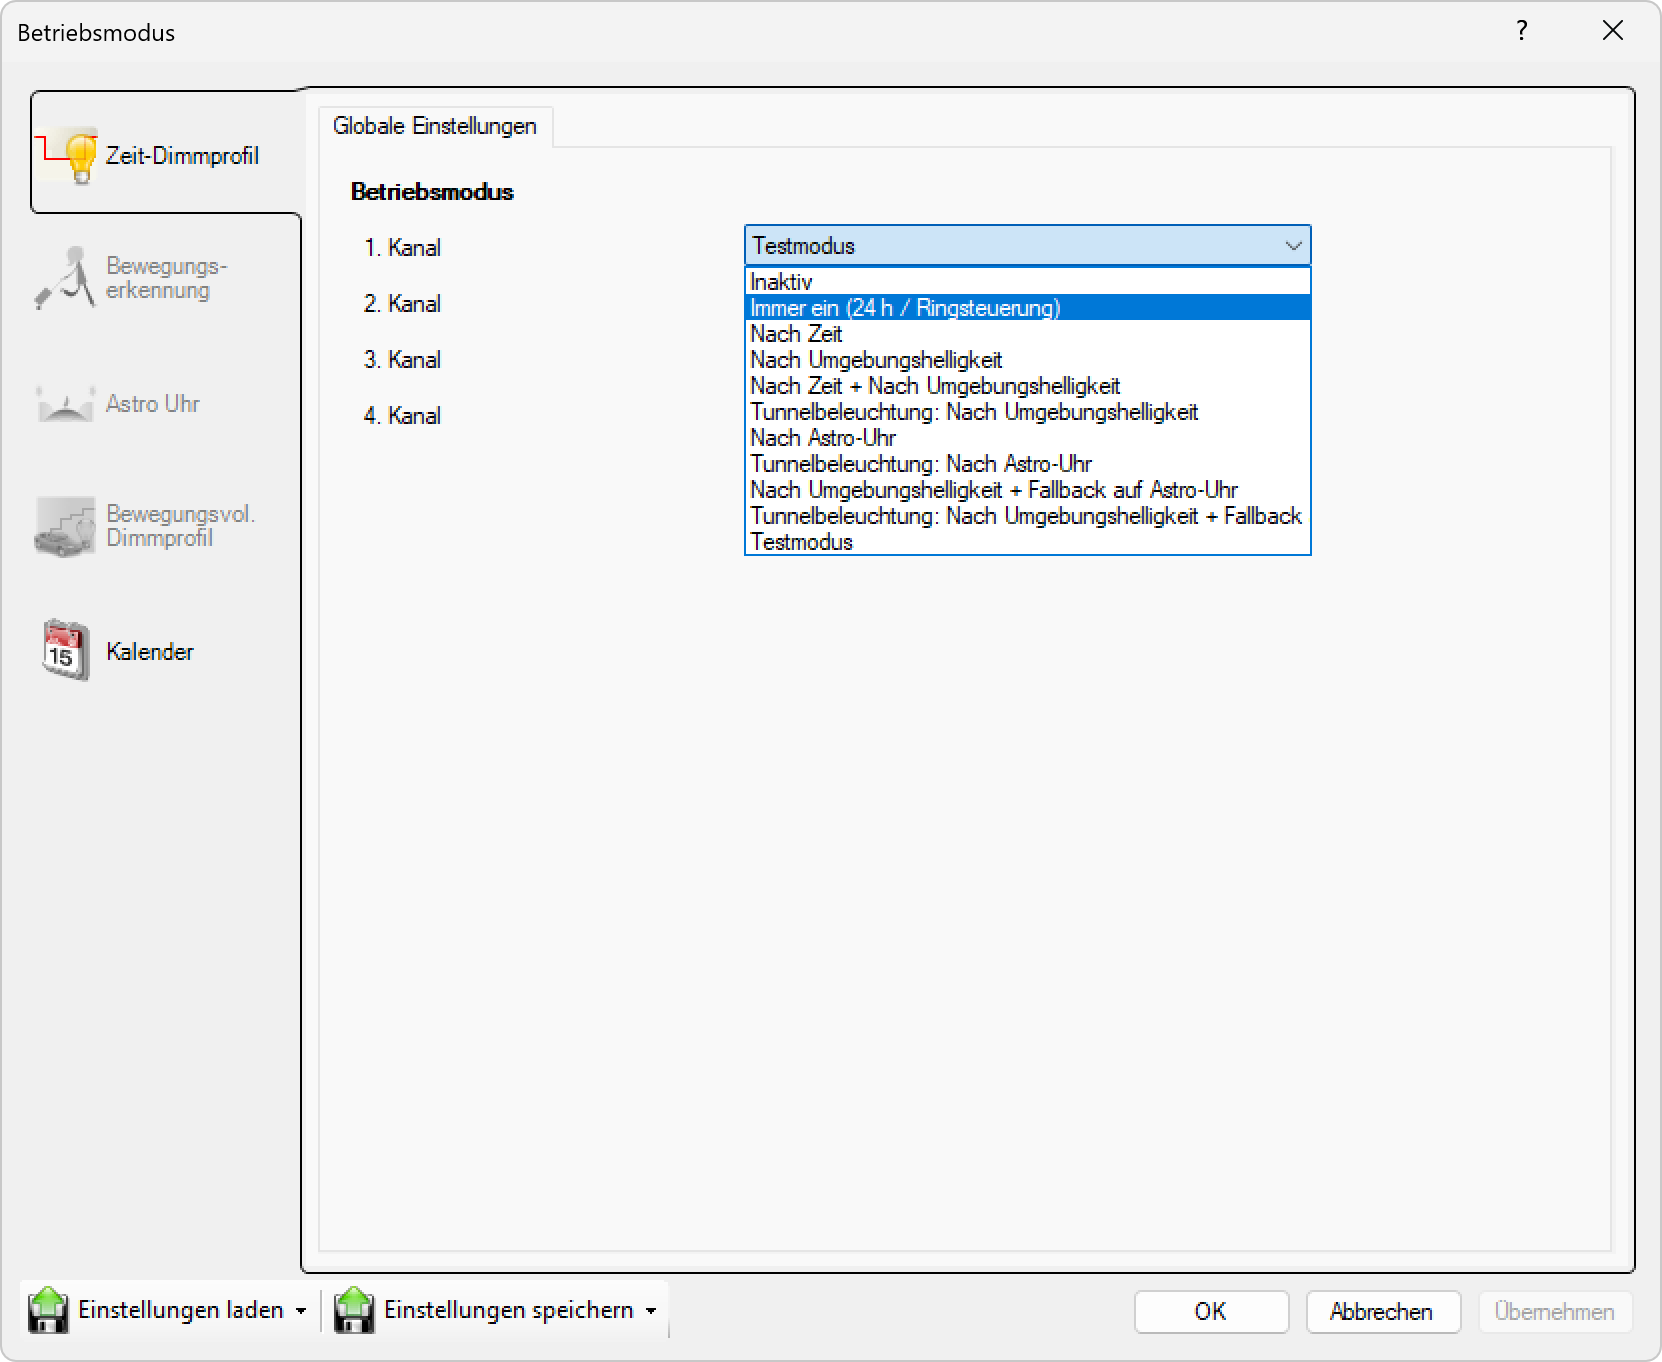
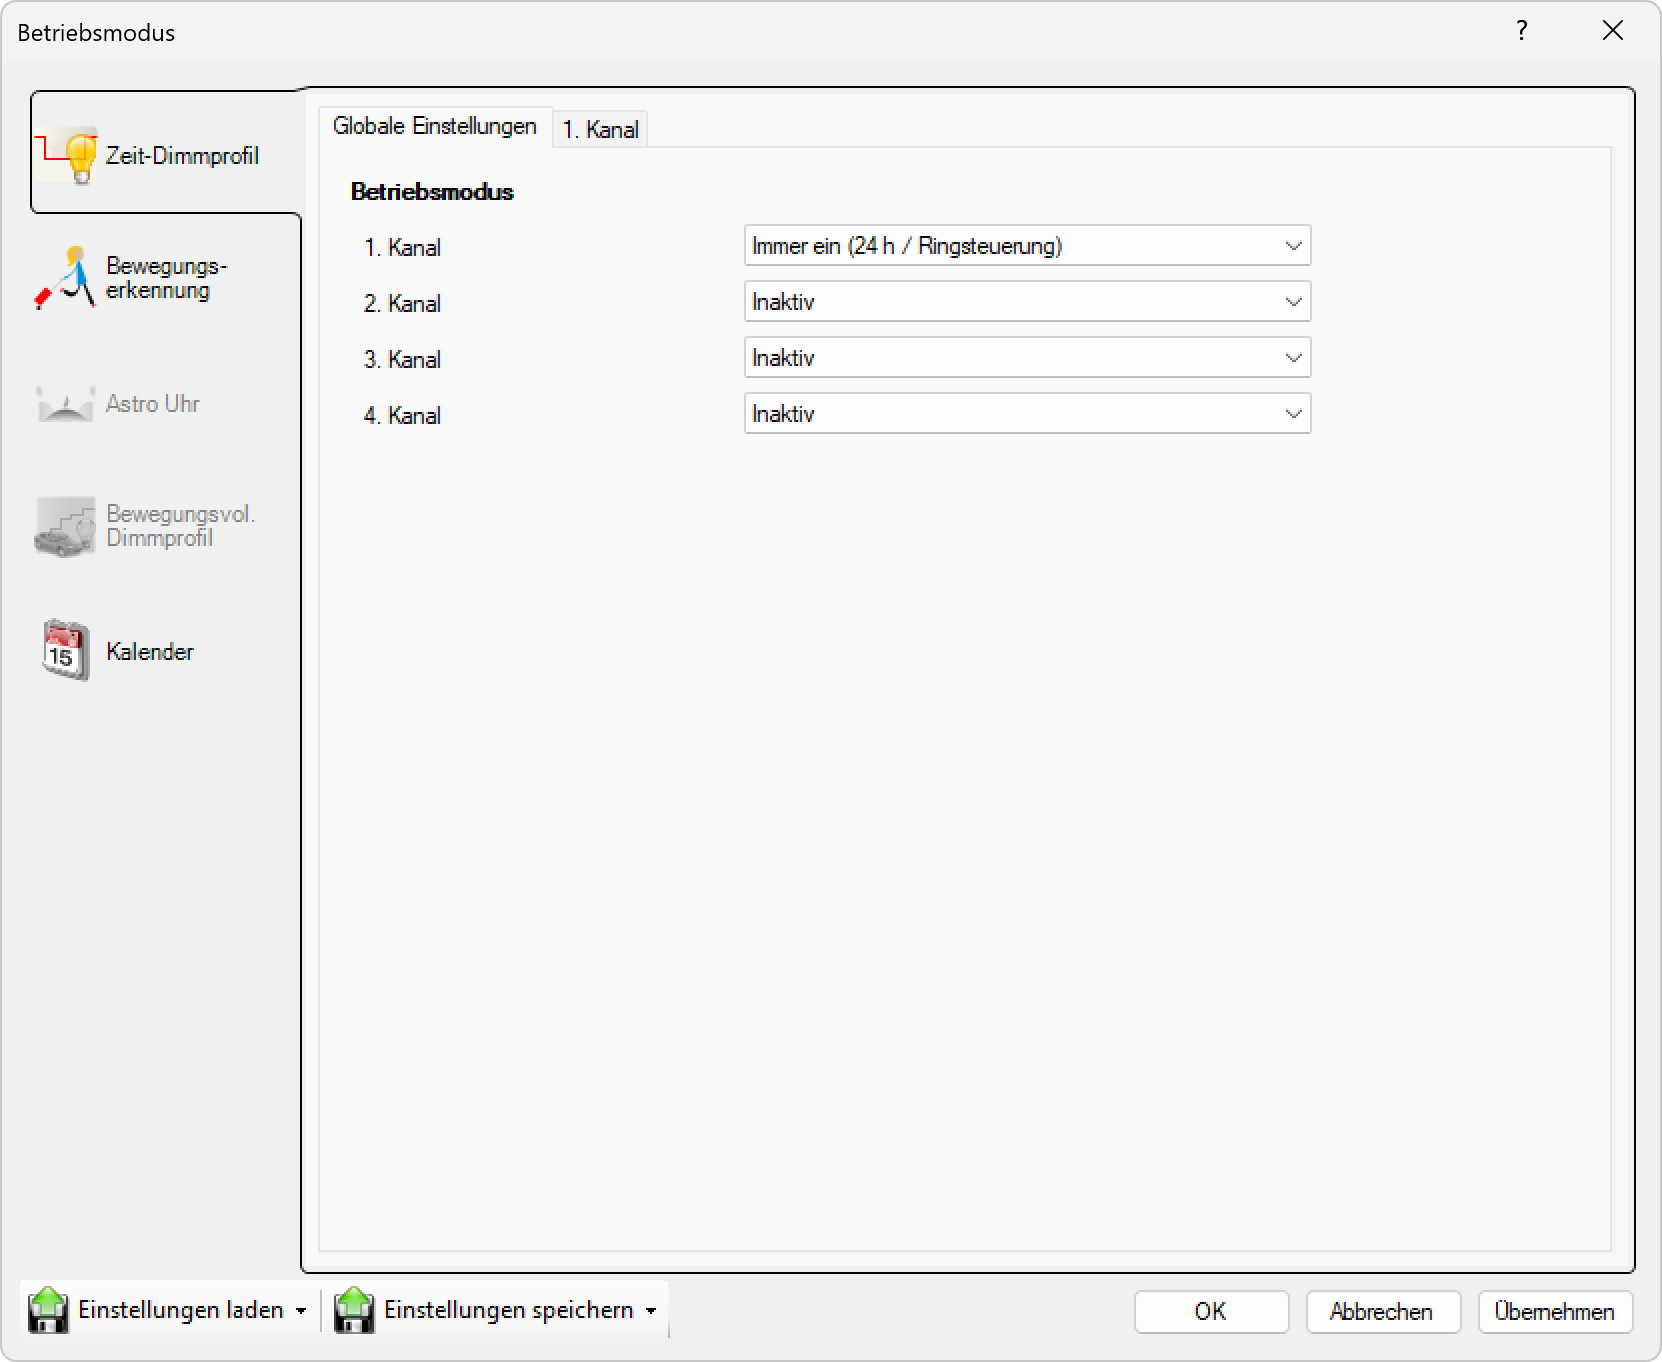
Reformat and expand Immer ein documentation
- Convert to standardized Markdown format with consistent structure
- Add detailed UI component breakdown and navigation sections
- Preserve original technical description about ring control functionality
- Update image reference and add comprehensive settings documentation

🤖 Generated with [Claude Code](https://claude.ai/code)

diff --git a/de/src/5-verfuegbare-geraete/2-geraete-einstellungen/2-geraetekonfiguration/2-betriebsmodus/1-zeit-dimmprofil/1-globale-einstellungen/2-immer-ein/README.md b/de/src/5-verfuegbare-geraete/2-geraete-einstellungen/2-geraetekonfiguration/2-betriebsmodus/1-zeit-dimmprofil/1-globale-einstellungen/2-immer-ein/README.md
@@ -1,6 +1,51 @@
-# Immer Ein (24h / Ringsteuerung)
-![Immer Ein (24h / Ringsteuerung)](immer-ein-1.png)  
+# Immer ein (24 h / Ringsteuerung)
 
-**Immer ein (24 Stunden)**  
+![Immer ein (24 h / Ringsteuerung)](immer-ein-1.png)
+
+**Immer ein (24 h / Ringsteuerung)**
+
+Wählen Sie diesen Modus, um den Kanal kontinuierlich für 24 Stunden mit Ringsteuerungsfunktionalität aktiv zu halten.
+
+## Hauptbereiche
+
+1. **Zeit-Dimmprofil**
+   - Aktiver Bereich: Dieser Bereich ist aktuell ausgewählt und ermöglicht die Konfiguration zeitbasierter Dimmprofile für die Beleuchtungssteuerung.
+
+2. **Tab-Navigation**
+   - Globale Einstellungen: Allgemeine Einstellungen für alle Kanäle.
+   - 1. Kanal: Spezifische Einstellungen für den ersten Kanal werden angezeigt.
+
+## Betriebsmodus-Optionen
+
+Für jeden der vier Kanäle können Sie einen Betriebsmodus aus einem Dropdown-Menü auswählen:
+
+- **Immer ein (24 h / Ringsteuerung)**: Kanal ist immer eingeschaltet (24 Stunden / Ringsteuerung)
+- **Inaktiv**: Der Kanal ist inaktiv (ausgeschaltet oder nicht in Gebrauch)
+
+In diesem Fenster:
+- **1. Kanal**: Auf "Immer ein (24 h / Ringsteuerung)" eingestellt.
+- **2. Kanal**: Auf "Inaktiv" eingestellt.
+- **3. Kanal**: Auf "Inaktiv" eingestellt.
+- **4. Kanal**: Auf "Inaktiv" eingestellt.
+
+## Immer-Ein-Einstellungen (Immer ein)
+
+Für den ersten Kanal, der auf "Immer ein" eingestellt ist, bleibt der Kanal kontinuierlich für 24 Stunden mit Ringsteuerungsfunktionalität aktiv. Dieser Modus gewährleistet einen konstanten Betrieb ohne zeitbasierte Einschränkungen.
 
 Die Leuchte ist immer betriebsbereit und **leuchtet**, wenn Sie an eine Stromversorgung angeschlossen ist. Viele Gemeinden oder Städte schalten die Leuchten zentral über ein Signal oder Ringsteuerung ein und aus. In diesem Fall sollte die Betriebsart "Immer ein" verwendet werden. Dies ist der gängigste Modus, der in Mittel- und Westeuropa verwendet wird.
+
+## Seitennavigation
+
+- **Zeit-Dimmprofil**: Zeitbasiertes Dimmprofil (aktuell aktiv).
+- **Bewegungserkennung**: Bewegungserkennungseinstellungen (inaktiv).
+- **Astro Uhr**: Astronomische Uhreneinstellungen (inaktiv).
+- **Bewegungsvoll. Dimmprofil**: Bewegungsgesteuertes Dimmprofil (inaktiv).
+- **Kalender**: Kalenderbasierte Zeitplanung.
+
+## Untere Bedienelemente
+
+- **Einstellungen laden**: Konfiguration aus einer Datei oder einem Profil laden.
+- **Einstellungen speichern**: Aktuelle Konfiguration speichern.
+- **OK**: Alle Änderungen bestätigen und anwenden.
+- **Abbrechen**: Abbrechen und Fenster ohne Speichern schließen.
+- **Übernehmen**: Änderungen anwenden ohne das Fenster zu schließen.
